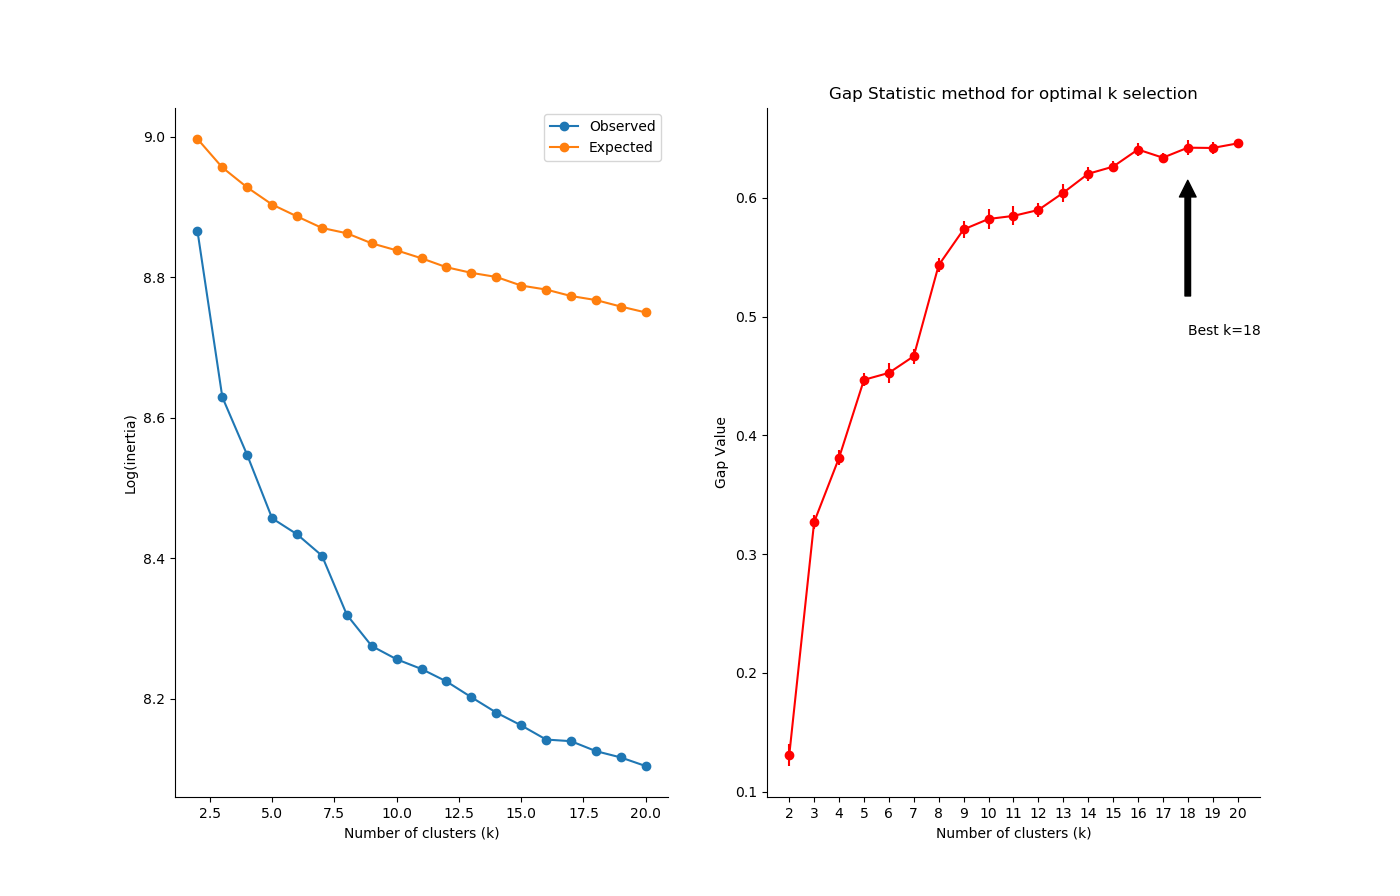
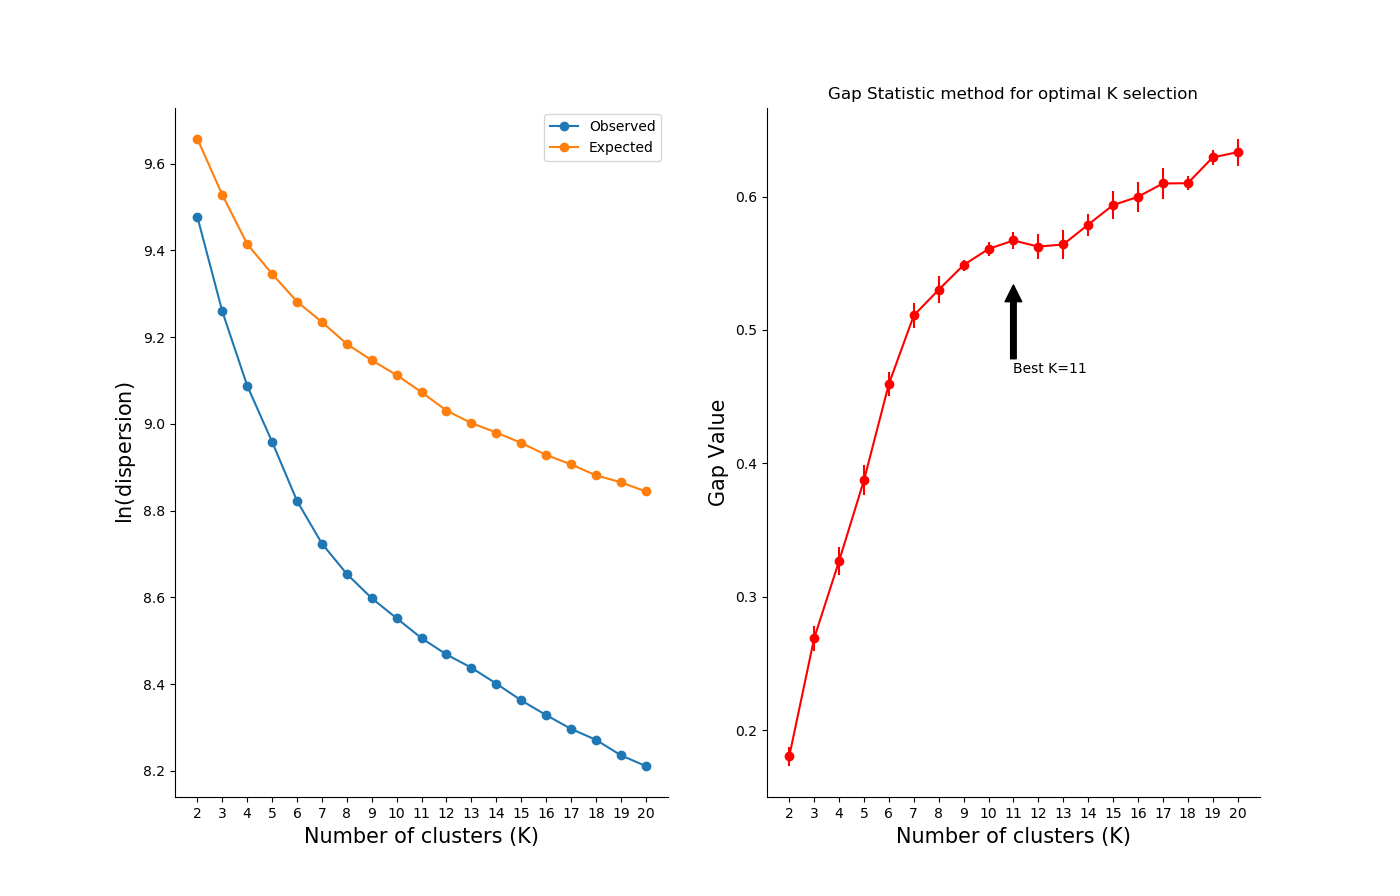
updated gap statistic. 1. Gap statistic for KMeans now uses KMeans instead of MiniBatchKMeans, leading to more consistent results. 2. Reference data is now generated using the PCA method 3. Added comments and explanations to the code 4. Refactored some internal variables names 5. Plotting was moved 

diff --git a/rnalysis/filtering.py b/rnalysis/filtering.py
@@ -24,7 +24,7 @@ import pandas as pd
 import seaborn as sns
 from grid_strategy import strategies
 from numba import jit
-from sklearn.cluster import KMeans, MiniBatchKMeans
+from sklearn.cluster import KMeans
 from sklearn.decomposition import PCA
 from sklearn.metrics import silhouette_score
 from sklearn.preprocessing import PowerTransformer, StandardScaler
@@ -2015,65 +2015,90 @@ class CountFilter(Filter):
         plt.show()
         return fig, axes
 
-    def _gap_statistic(self, clusterer_class: type, random_state: int, n_init: int, max_iter: int, n_refs: int = 30,
+    def _gap_statistic(self, clusterer_class: type, random_state: int, n_init: int, max_iter: int, n_refs: int = 10,
                        max_clusters: int = 20):
-        print(f"Calculating optimal k using the Gap Statistic method in range {2}:{max_clusters}...")
+        # determine the range of k values to be tested
+        k_range = np.arange(2, max_clusters + 1)
+        print(f"Calculating optimal K using the Gap Statistic method in range {2}:{max_clusters}...")
+        # set the random state, if one was supplied
         if random_state is not None:
             np.random.seed(random_state)
+        # calculate the SVD of the observed data (X), and transform via X' = x_tag = dot(X, V)
+        pca = PCA().fit(self.df.values)
+        x_tag = pca.transform(self.df.values)
+        # determine the ranges of the columns of X' (x_tag)
+        a, b = x_tag.min(axis=0, keepdims=True), x_tag.max(axis=0, keepdims=True)
+        # transform the observed data using Box-Cox, and then standardize it
         data = self._standard_box_cox(self.df.values)
-        a, b = self.df.values.min(axis=0, keepdims=True), self.df.values.max(axis=0, keepdims=True)
-        k_range = list(range(2, max_clusters + 1))
-        log_inertia_obs = np.zeros((len(k_range)))
-        log_inertia_exp = np.zeros((len(k_range)))
+        # allocate empty arrays for observed/expected log(inertia), gap scores Gap(K) and gap error S(K)
+        log_disp_obs = np.zeros((len(k_range)))
+        log_disp_exp = np.zeros((len(k_range)))
         gap_scores = np.zeros((len(k_range)))
-        gap_err = np.zeros((len(k_range)))
+        gap_error = np.zeros((len(k_range)))
 
+        # iterate over K values in the range
         for ind, this_k in enumerate(k_range):
-            clusterer = clusterer_class(n_clusters=this_k, random_state=random_state, n_init=n_init,
-                                        max_iter=max_iter)
+            # init the clusterer with given arguments
+            clusterer = clusterer_class(n_clusters=this_k, random_state=random_state, n_init=n_init, max_iter=max_iter)
+            # generate 'n_refs' random reference arrays and cluster each of them into Ki clusters
             ref_disps = np.zeros(n_refs)
-            for i in range(n_refs):
-                ref = self._standard_box_cox(np.random.random_sample(size=data.shape) * (b - a) + a)
-                ref_disps[i] = clusterer.fit(ref).inertia_
+            for ref_ind in range(n_refs):
+                # draw uniform features Z' over the ranges of the columns of X', and back-transform via Z = dot(Z', V.T)
+                ref = pca.inverse_transform(np.random.random_sample(size=data.shape) * (b - a) + a)
+                # transform the random reference data using Box-Cox, and then standardize it
+                ref = self._standard_box_cox(ref)
+                # calculate dispersion/inertia for reference data clustered into Ki clusters
+                ref_disps[ref_ind] = clusterer.fit(ref).inertia_
+            # calculate dispersion/inertia for the observed data clustered into Ki clusters
             disp = clusterer.fit(data).inertia_
-            ref_log_inertia = np.mean(np.log(ref_disps))
-            log_inertia_exp[ind] = ref_log_inertia
-            log_inertia_obs[ind] = np.log(disp)
-            gap_scores[ind] = ref_log_inertia - log_inertia_obs[ind]
-            stdev = np.sqrt(np.mean((np.log(ref_disps) - ref_log_inertia) ** 2.0))
-            gap_err[ind] = stdev * np.sqrt(1 + (1 / n_refs))
+            # calculate the mean of the log(reference dispersion) values
+            log_disp_exp[ind] = np.mean(np.log(ref_disps))
+            # calculate the log(observed dispersion) value
+            log_disp_obs[ind] = np.log(disp)
+            # calculate gap score for K = Ki
+            gap_scores[ind] = log_disp_exp[ind] - log_disp_obs[ind]
+            # calculate the gap standard deviation Sd(K) for K = Ki
+            stdev = np.sqrt(np.mean((np.log(ref_disps) - log_disp_exp[ind]) ** 2.0))
+            # calculate the gap standard error (Sk) for K = Ki
+            gap_error[ind] = stdev * np.sqrt(1 + (1 / n_refs))
 
-        best_k, best_k_ind = None, None
-        for ind, this_k in enumerate(k_range):
-            # if the test went on to the last K, return it as the best K
-            if ind + 1 == len(k_range):
-                best_k = this_k
-                best_k_ind = ind
-                break
-            if gap_scores[ind] >= gap_scores[ind + 1] - gap_err[ind + 1]:
-                best_k = this_k
-                best_k_ind = ind
-                break
+        # Find the smallest K such that Gap(K) >= Gap(K+1) - S(K+1), AKA Diff(K) = Gap(k) - Gap(k+1) + S(K+1) >= 0
+        diff = gap_scores[:-1] - gap_scores[1::] + gap_error[1::]
+        # Return all K values that fulfilled the condition as 'potentially good K values'
+        k_candidates = k_range[:-1][diff >= 0]
+        # if no K fulfilled the condition (the gap function is monotonically increasing),
+        # return the last value of K as the best K
+        best_k = k_candidates[0] if len(k_candidates) > 0 else k_range[-1]
+        best_k_ind = np.argmax(k_range == best_k)
+        print(f"Using the Gap Statistic method, {best_k} was chosen as the best number of clusters (K).")
+        if len(k_candidates) >= 2:
+            print(f"Other potentially good values of K that were found: {list(k_candidates[1:])}. ")
 
+        # plot results
+        fig = self._plot_gap(k_range, log_disp_obs, log_disp_exp, gap_scores, gap_error, best_k, best_k_ind)
+
+        return best_k, fig
+
+    @staticmethod
+    def _plot_gap(k_range, log_disp_obs, log_disp_exp, gap_scores, gap_error, best_k, best_k_ind):
         fig, (ax_inertia, ax) = plt.subplots(1, 2, figsize=(14, 9))
-        ax_inertia.plot(k_range, log_inertia_obs, '-o')
-        ax_inertia.plot(k_range, log_inertia_exp, '-o')
+        ax_inertia.plot(k_range, log_disp_obs, '-o')
+        ax_inertia.plot(k_range, log_disp_exp, '-o')
         ax_inertia.legend(['Observed', 'Expected'])
-        ax_inertia.set_ylabel("Log(inertia)")
-        ax_inertia.set_xlabel("Number of clusters (k)")
+        ax_inertia.set_ylabel(r"$\ln$(dispersion)", fontsize=15)
+        ax_inertia.set_xlabel("Number of clusters (K)", fontsize=15)
         ax_inertia.set_xticks(k_range)
-        ax.errorbar(k_range, gap_scores, yerr=gap_err, marker='o', color='r')
-        ax.set_title("Gap Statistic method for optimal k selection")
-        ax.set_ylabel('Gap Value')
-        ax.set_xlabel("Number of clusters (k)")
-        ax.annotate(f'Best k={best_k}', xy=(best_k, gap_scores[best_k_ind] - gap_err[best_k_ind]),
-                    xytext=(best_k, max(gap_scores) * 0.75),
-                    arrowprops=dict(facecolor='black', shrink=0.15))
+        ax.errorbar(k_range, gap_scores, yerr=gap_error, marker='o', color='r')
+        ax.set_title("Gap Statistic method for optimal K selection")
+        ax.set_ylabel('Gap Value', fontsize=15)
+        ax.set_xlabel("Number of clusters (K)", fontsize=15)
+        ax.annotate(f'Best K={best_k}', xy=(best_k, (gap_scores[best_k_ind] - gap_error[best_k_ind]) / 1.05),
+                    xytext=(best_k, (gap_scores[best_k_ind] - gap_error[best_k_ind]) / 1.2),
+                    arrowprops=dict(facecolor='black', shrink=0.01))
         ax.set_xticks(k_range)
         sns.despine()
         plt.show()
-        print(f"Using the Gap Statistic method, {best_k} was chosen as the best number of clusters (k).")
-        return best_k, fig
+        return fig
 
     def _silhouette(self, clusterer_class: type, random_state: int, n_init: int, max_iter: int, max_clusters: int = 20):
         """
@@ -2094,7 +2119,7 @@ class CountFilter(Filter):
         print(f"Calculating optimal k using the Silhouette method in range {2}:{max_clusters}...")
         data = self._standard_box_cox(self.df)
         sil_scores = []
-        k_range = list(range(2, max_clusters + 1))
+        k_range = np.arange(2, max_clusters + 1)
         for n_clusters in k_range:
             clusterer = clusterer_class(n_clusters=n_clusters, n_init=n_init, max_iter=max_iter,
                                         random_state=random_state)
@@ -2166,7 +2191,7 @@ class CountFilter(Filter):
                      max_iter: int = 300, plot_style: str = 'all', split_plots: bool = False,
                      max_clusters: int = 'default'):
 
-        k = self._parse_k(k=k, clusterer_class=MiniBatchKMeans, random_state=random_state, n_init=n_init,
+        k = self._parse_k(k=k, clusterer_class=KMeans, random_state=random_state, n_init=n_init,
                           max_iter=max_iter, max_clusters=max_clusters)
         filt_obj_tuples = []
         data = self._standard_box_cox(self.df)
